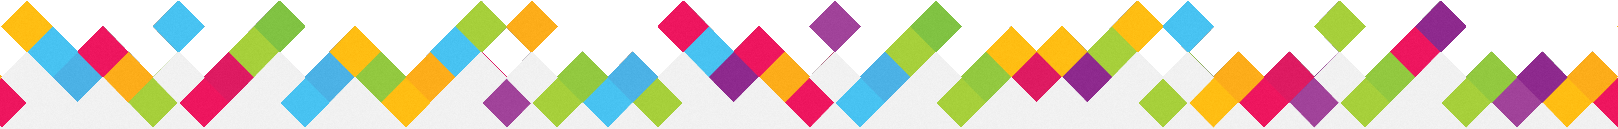
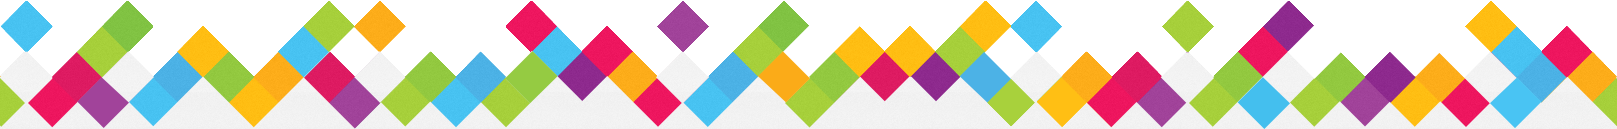
Правка фона с квадратами http://local.prostosait.ru/workgroups/group/150/tasks/task/view/3993/

diff --git a/local/templates/.default/css/template_styles.css b/local/templates/.default/css/template_styles.css
@@ -576,15 +576,10 @@ label {
 .about-section:before {
   content: '';
   width: 100%;
-  height: 77px;
+  height: 78px;
   position: absolute;
   top: 0;
-  -webkit-transform: rotate(180deg);
-  -moz-transform: rotate(180deg);
-  -ms-transform: rotate(180deg);
-  -o-transform: rotate(180deg);
-  transform: rotate(180deg);
-  background: url("../images/separator-type2.png") repeat-x;
+  background: url("../images/separator-type3.png") repeat-x;
   z-index: 1;
 }
 .about-section:after {
@@ -623,15 +618,10 @@ label {
 .projects-section:before {
   content: '';
   width: 100%;
-  height: 77px;
+  height: 78px;
   position: absolute;
   top: 0;
-  -webkit-transform: rotate(180deg);
-  -moz-transform: rotate(180deg);
-  -ms-transform: rotate(180deg);
-  -o-transform: rotate(180deg);
-  transform: rotate(180deg);
-  background: url("../images/separator-type2.png") repeat-x;
+  background: url("../images/separator-type3.png") repeat-x;
   z-index: 1;
 }
 .projects-section:after {
@@ -980,15 +970,10 @@ label {
 .reviews-section:before {
   content: '';
   width: 100%;
-  height: 77px;
+  height: 78px;
   position: absolute;
   top: 0;
-  -webkit-transform: rotate(180deg);
-  -moz-transform: rotate(180deg);
-  -ms-transform: rotate(180deg);
-  -o-transform: rotate(180deg);
-  transform: rotate(180deg);
-  background: url("../images/separator-type2.png") repeat-x;
+  background: url("../images/separator-type3.png") repeat-x;
   z-index: 1;
 }
 .reviews-section:after {
